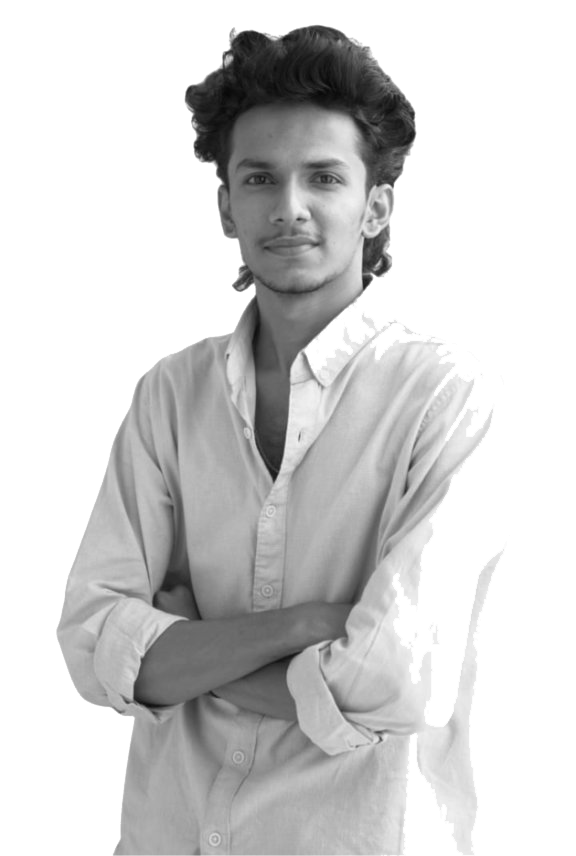
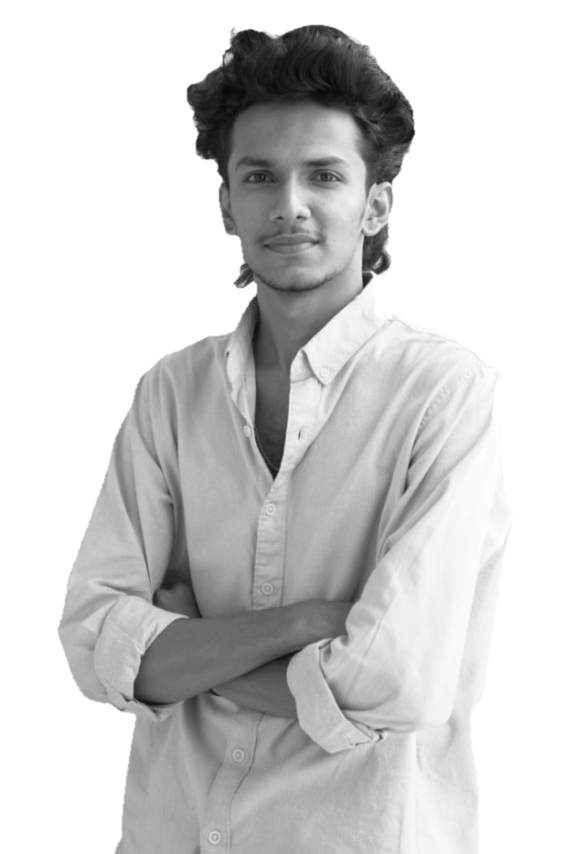
Restore complete intact body and cleanly remove white stroke using morphological contour stripping

diff --git a/index.html b/index.html
@@ -217,7 +217,7 @@
           <div class="dm-hero-final__glow"></div>
           
           <div class="dm-hero-final__image">
-            <img src="./assets/images/nived_cutout.png?v=2.0" alt="Nived - Performance Marketing & Paid Ads Consultant in Kerala" class="dm-photo-img" width="576" height="856" loading="eager">
+            <img src="./assets/images/nived_cutout.png?v=3.0" alt="Nived - Performance Marketing & Paid Ads Consultant in Kerala" class="dm-photo-img" width="576" height="854" loading="eager">
           </div>
 
           <span class="dm-hero-final__location">CALICUT • KERALA • INDIA</span>
